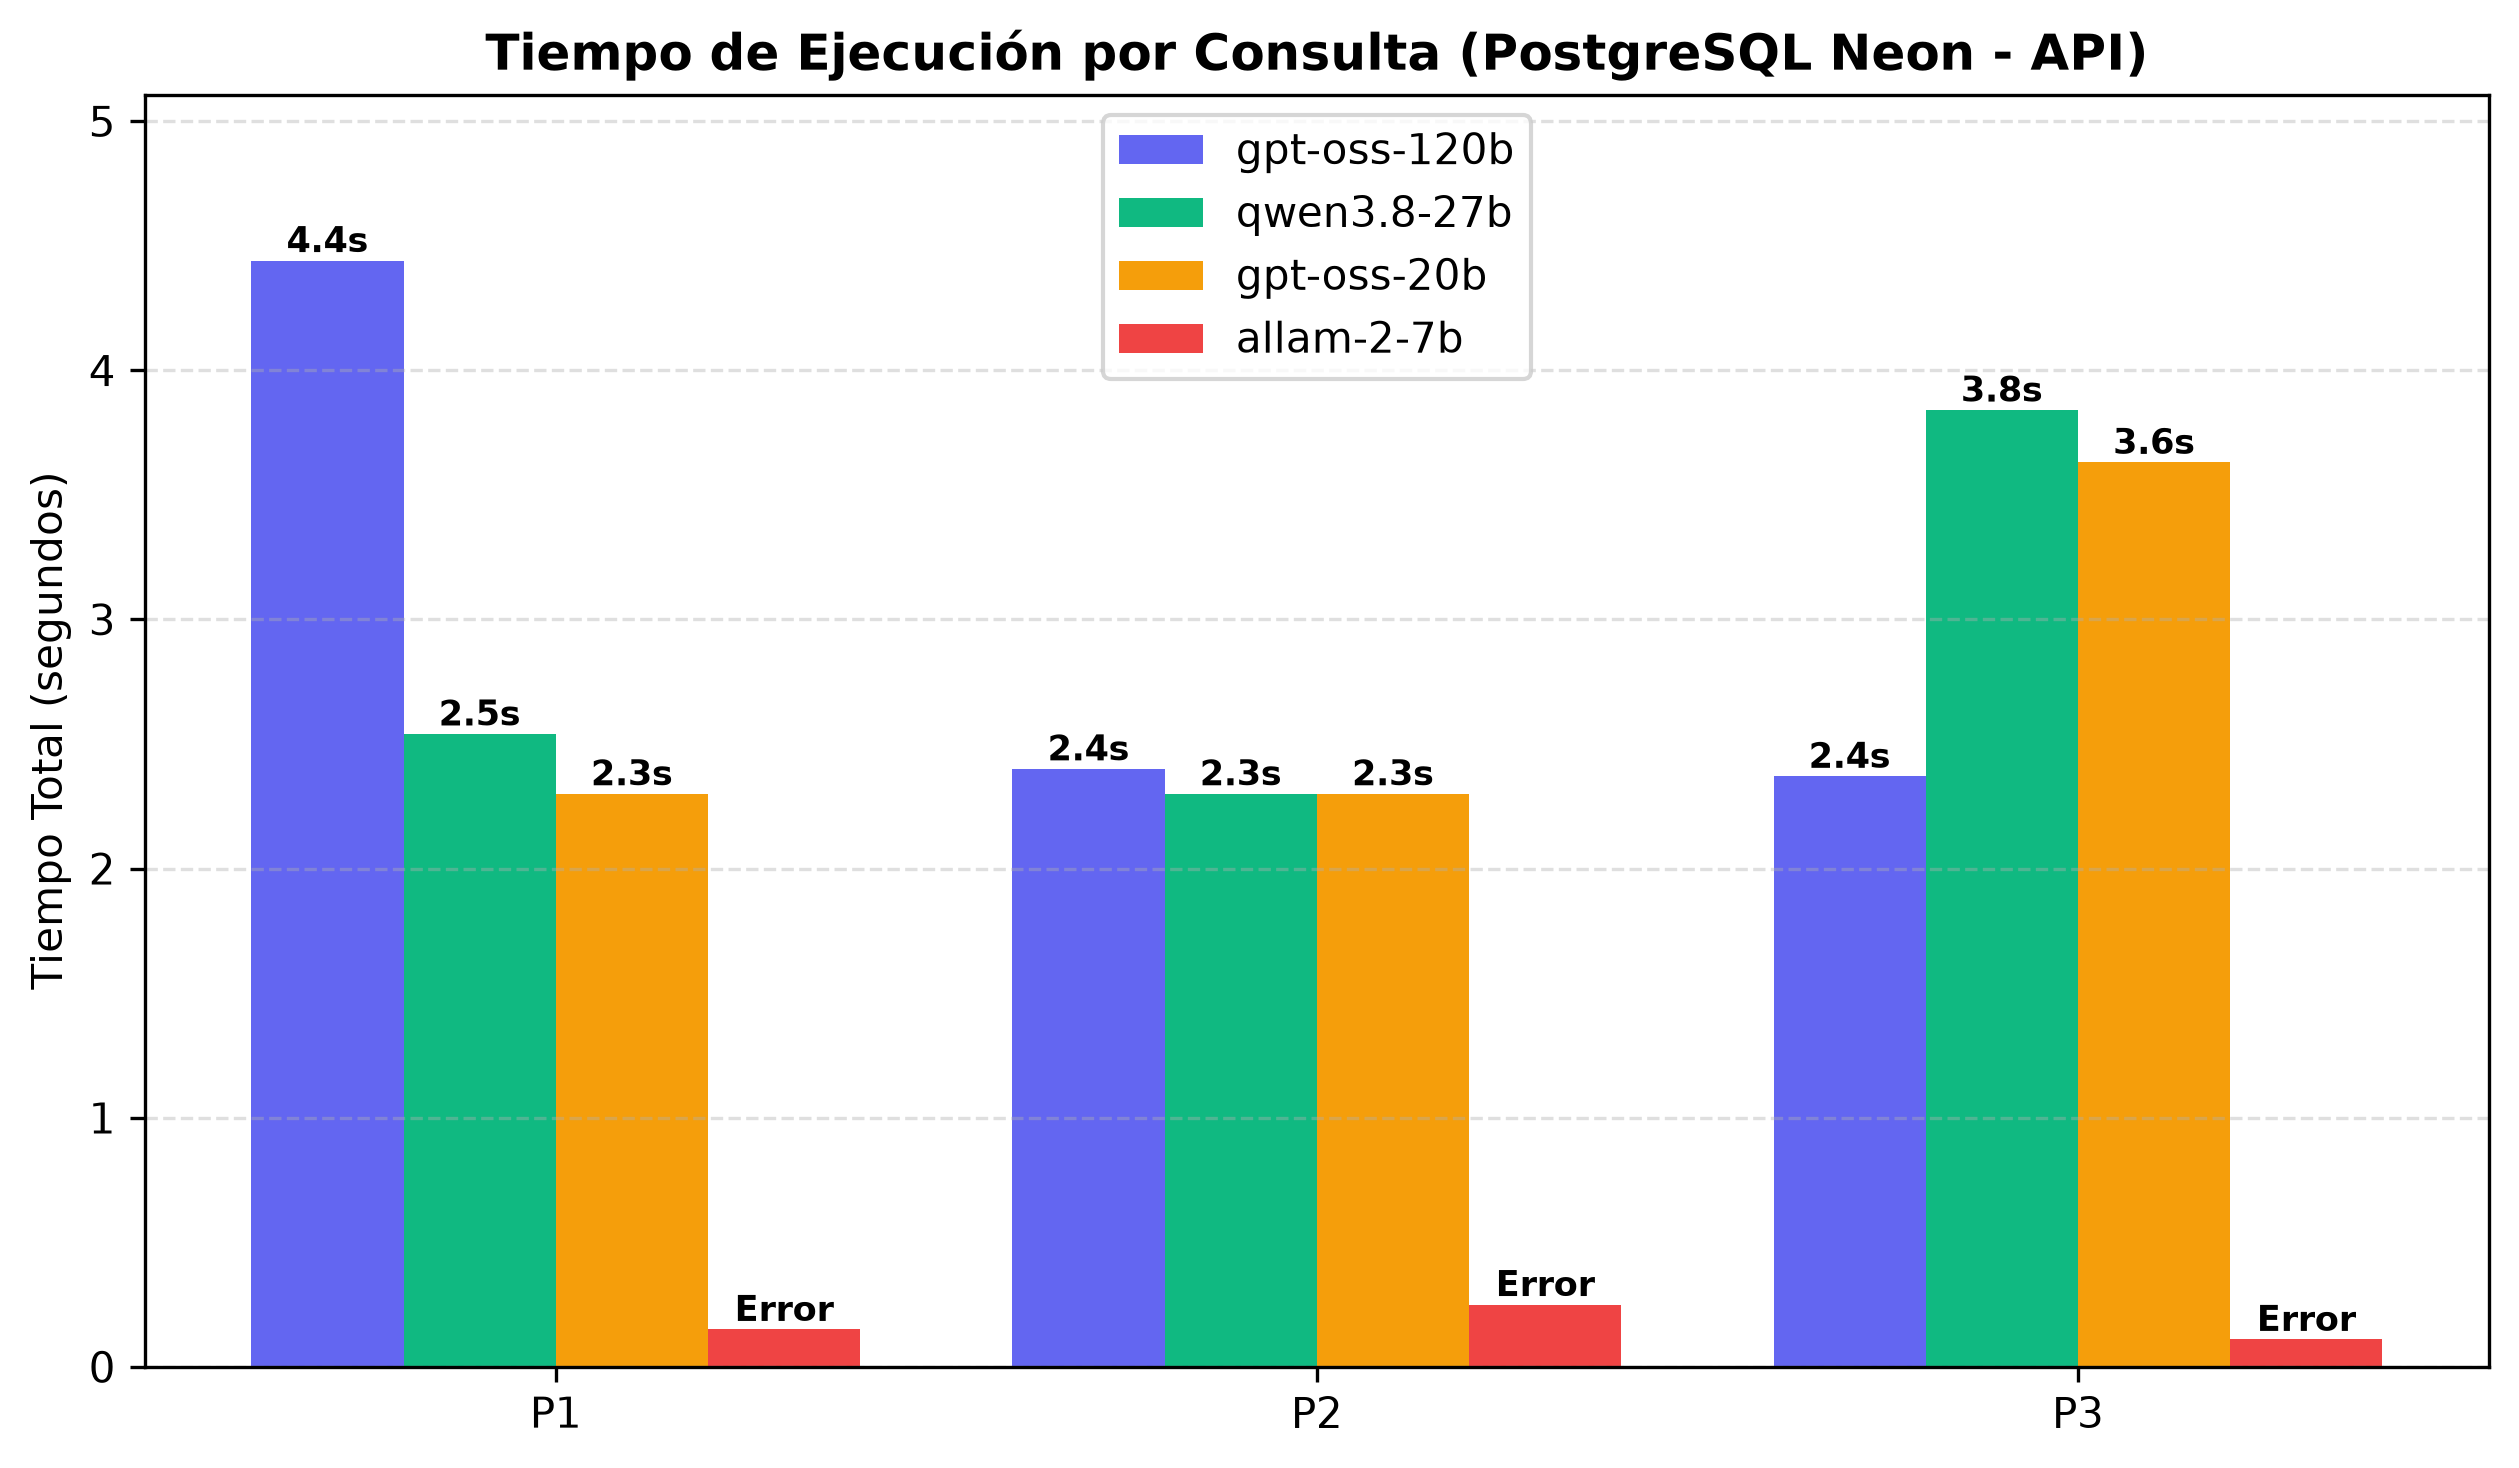
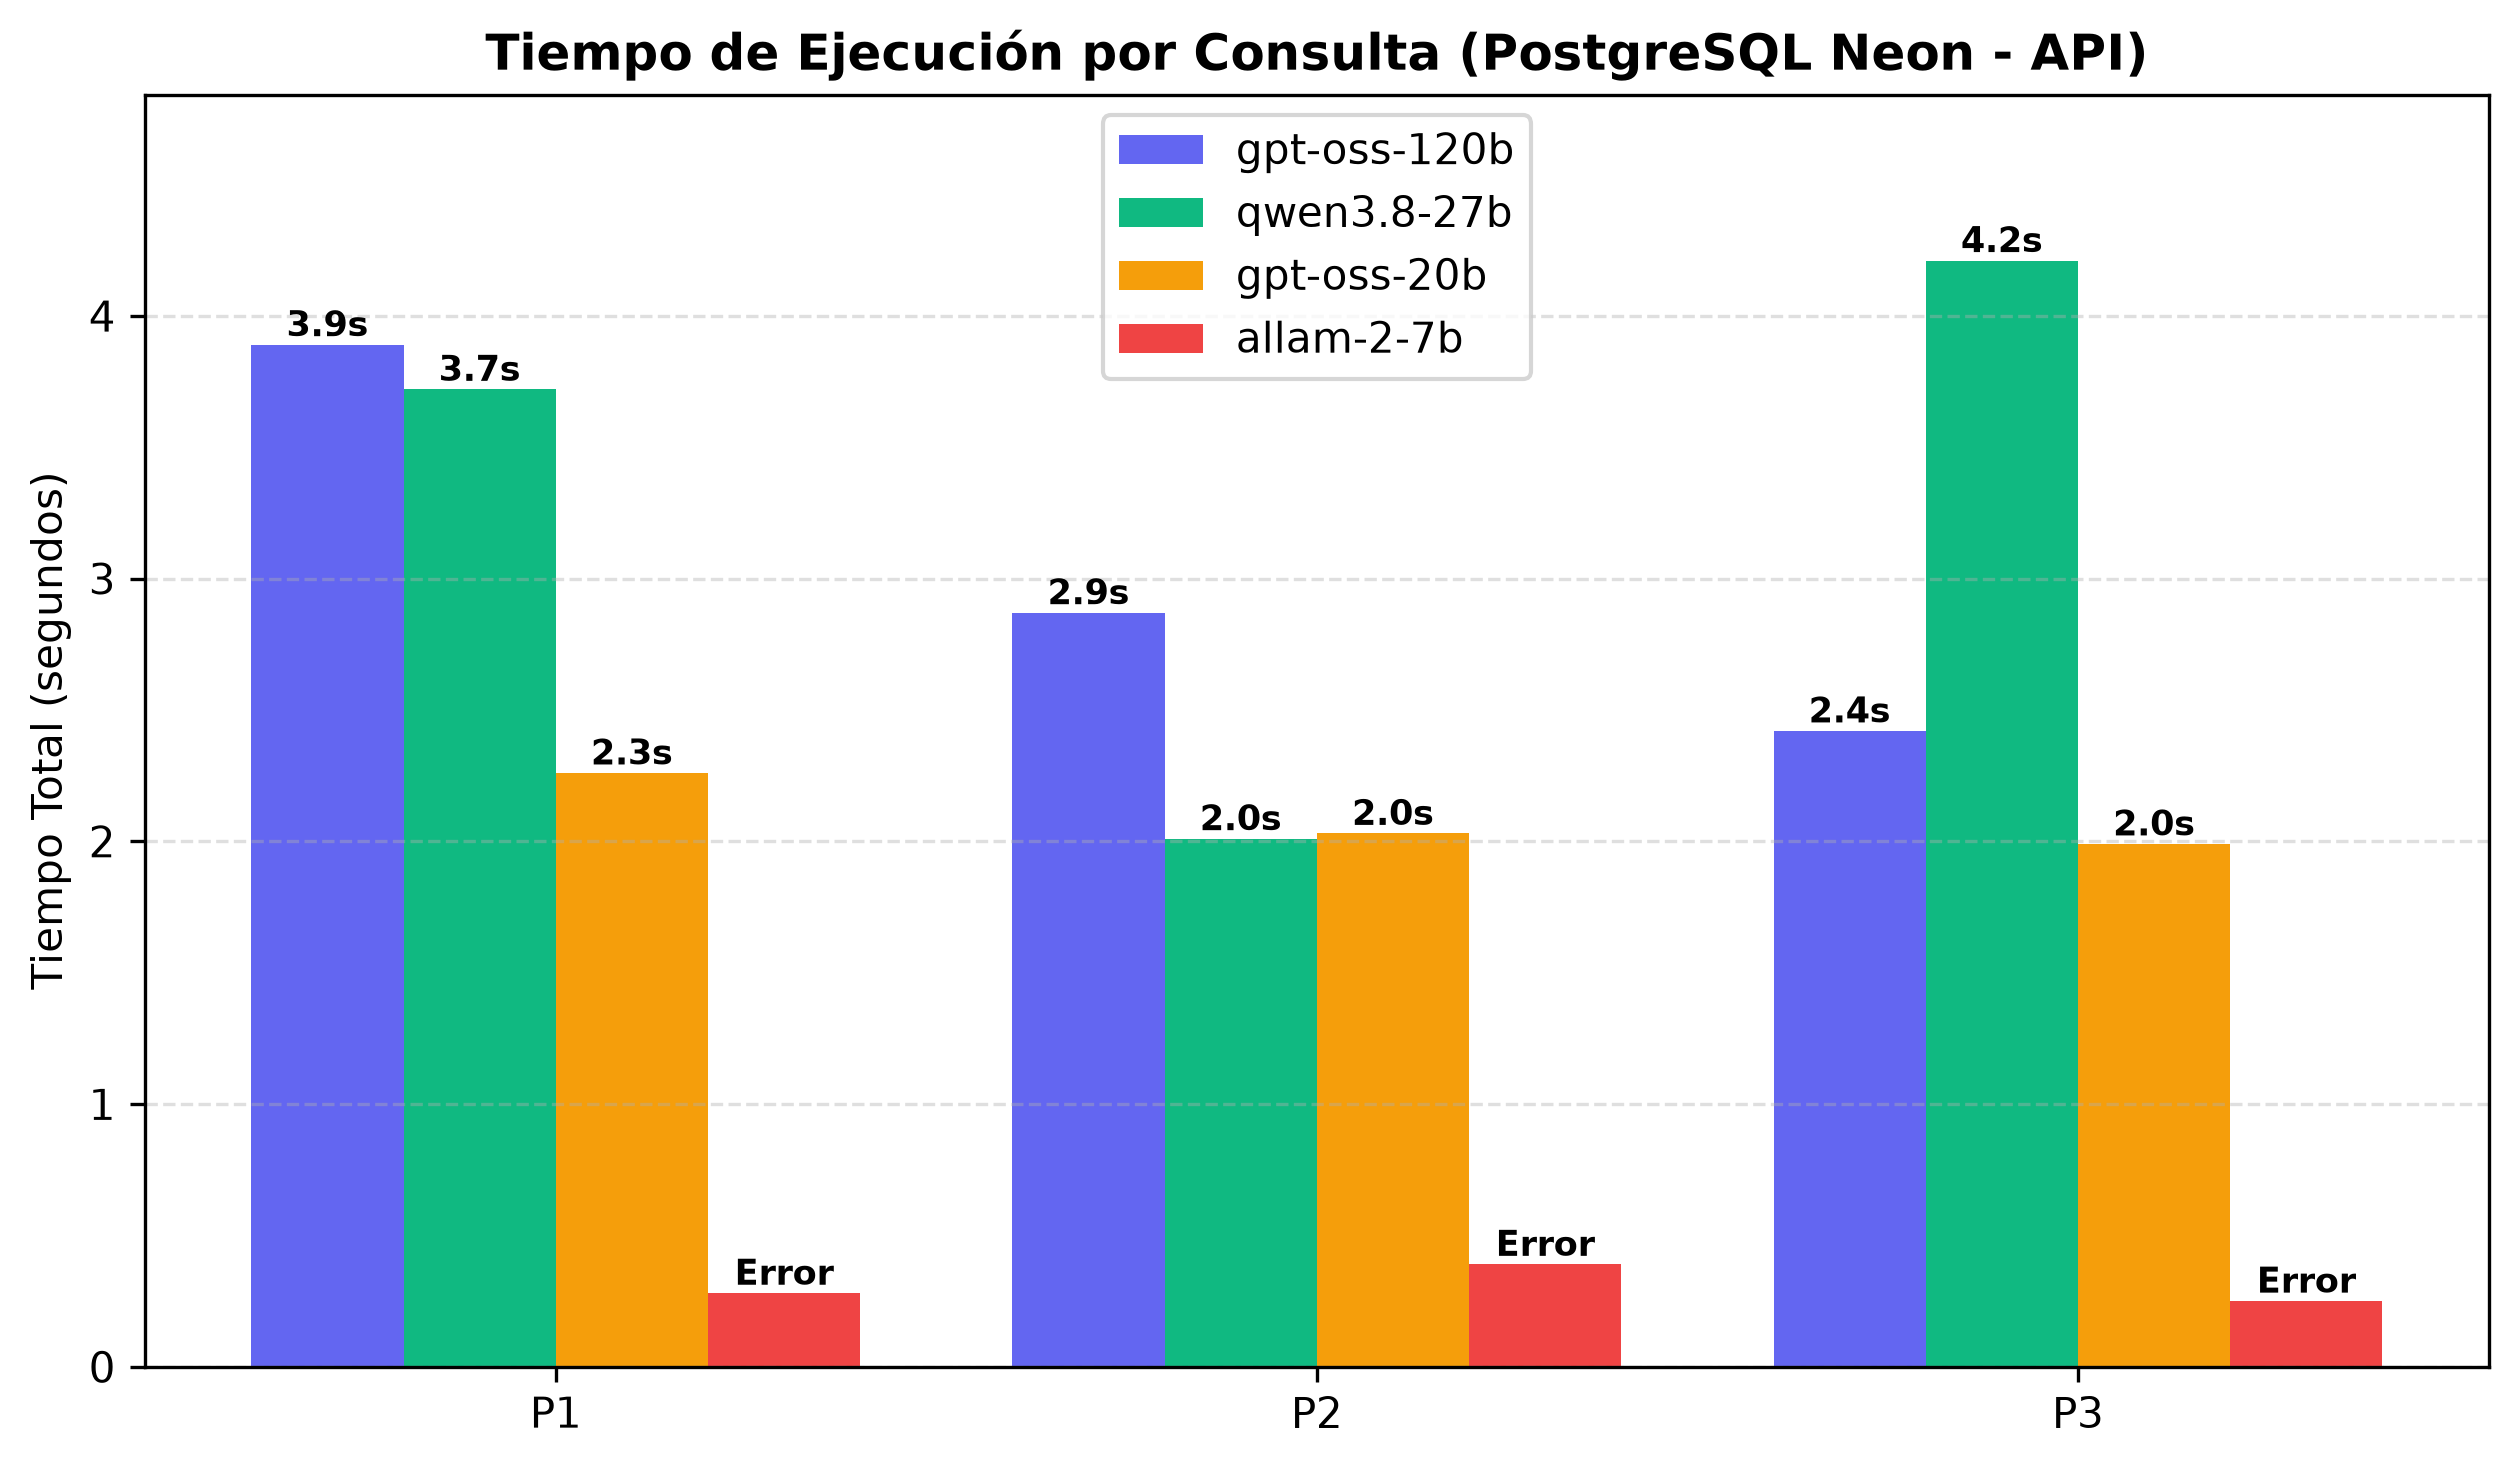
arreglando error path, aumentando espera y limites para mejorar la ejecucion

diff --git a/src/api_cloud/mongo_api.py b/src/api_cloud/mongo_api.py
@@ -10,6 +10,7 @@ from langchain.agents import create_agent
 import matplotlib
 matplotlib.use("Agg")
 import matplotlib.pyplot as plt
+from pathlib import Path
 
 # =============================================================================
 # 1. CONFIGURACIÓN DE CREDENCIALES Y CONEXIÓN A MONGODB ATLAS
@@ -173,7 +174,7 @@ def consultar_airbnb_con_metricas(pregunta_usuario: str, modelo: str) -> dict:
 
         resultado_agente = agente.invoke(
             {"messages": [("user", pregunta_usuario)]},
-            config={"recursion_limit": 10}
+            config={"recursion_limit": 14}
         )
         mensajes = resultado_agente["messages"]
 
@@ -306,7 +307,8 @@ if __name__ == "__main__":
     MIS_MODELOS = [
         "openai/gpt-oss-120b",
         "qwen/qwen3.8-27b",
-        "openai/gpt-oss-20b"
+        "openai/gpt-oss-20b",
+        "allam-2-7b"
     ]
 
     MIS_PREGUNTAS = [
@@ -324,8 +326,8 @@ if __name__ == "__main__":
             imprimir_banner_pregunta(idx, len(MIS_PREGUNTAS), pregunta)
             resultado_metrica = consultar_airbnb_con_metricas(pregunta, modelo)
             historial_metricas.append(resultado_metrica)
-            # Pausa de 6s para evitar saturar el límite de tokens de salida por minuto en Groq
-            time.sleep(6)
+            # Pausa de 15s para evitar saturar el límite de tokens de salida por minuto en Groq
+            time.sleep(15)
 
     print("\n\n" + "★" * 80)
     print("RESUMEN COMPARATIVO DE RENDIMIENTO (MONGODB ATLAS + AGENTE API)")

diff --git a/src/api_cloud/sql_api.py b/src/api_cloud/sql_api.py
@@ -9,6 +9,8 @@ from langchain.agents import create_agent
 import matplotlib
 matplotlib.use("Agg")
 import matplotlib.pyplot as plt
+from pathlib import Path
+
 
 # =============================================================================
 # 1. CONFIGURACIÓN DE CREDENCIALES Y CONEXIÓN A NEON (POSTGRESQL EN LA NUBE)
@@ -251,7 +253,7 @@ if __name__ == "__main__":
             imprimir_banner_pregunta(idx, len(MIS_PREGUNTAS), pregunta)
             res = consultar_meteoritos_con_metricas(pregunta, modelo)
             historial_metricas.append(res)
-            time.sleep(2)
+            time.sleep(15)
 
     print("\n\n" + "★" * 80)
     print("RESUMEN COMPARATIVO DE RENDIMIENTO (POSTGRESQL NEON + API)")
